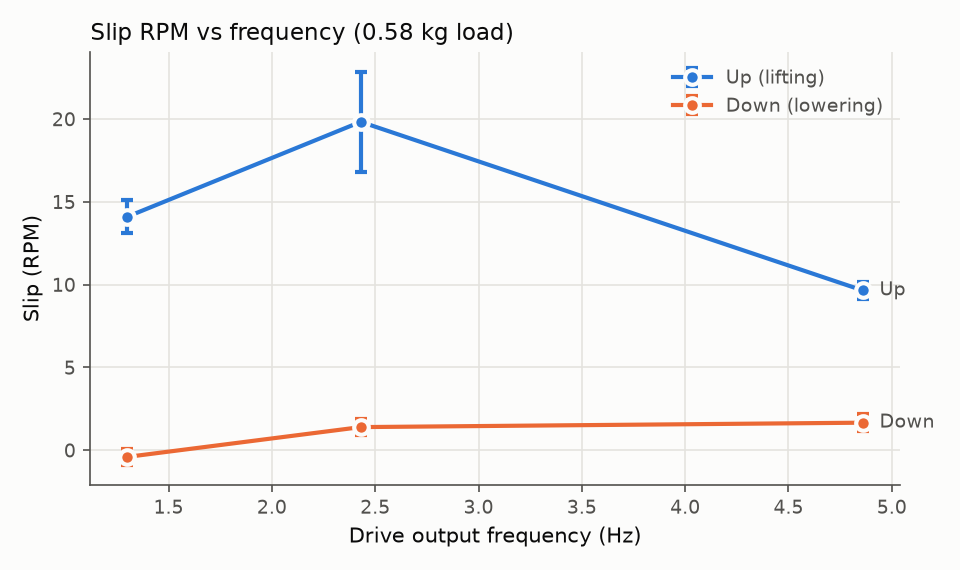
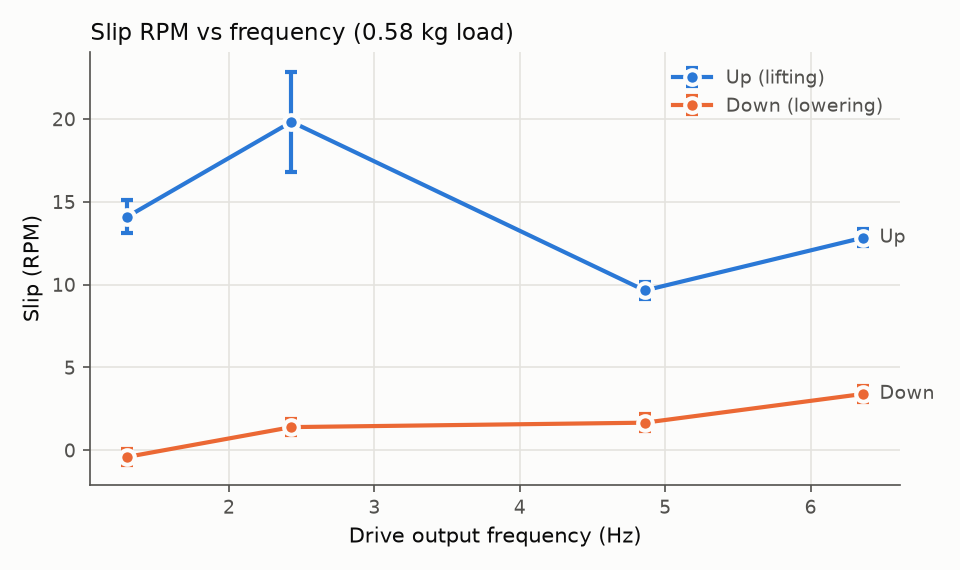
Log the 0.58 kg pliers test at 6.36 Hz, completing the pliers data set
One run (7) is excluded: tracing the raw log shows its "steady"
plateau is actually two different plateaus stitched together by a
mid-run dip that never fully crossed the stop threshold, giving a
blended, meaningless average. The remaining runs split cleanly on
current and extend the monotonic down-slip-vs-load trend seen at
4.85 Hz to a second frequency.

Claude-Session: https://claude.ai/code/session_01KDBgZS5sBDtdZcqbVDmcN3

diff --git a/docs/results-log.md b/docs/results-log.md
@@ -172,3 +172,33 @@ slip also lines up across all three load levels at this frequency, decreasing
 monotonically as load increases — no-load 3.0% → 0.58 kg pliers 1.1%–1.2% → 1.46 kg box
 ≈0% — consistent with heavier loads overhauling the motor more completely on the way
 down.
+
+## 2026-10-07: pliers (0.58 kg), 6.36 Hz — last of the four pliers frequencies
+
+Up read as **178 RPM**; down read as **187–188 RPM** (session
+`2026-10-07_Pliers_baseweight-0.58kg_testedfreq-6.36hz`). One run needed to be thrown out
+for a reason not seen before: run 7 (11.1 s, 33 steady rows — looks clean by the numbers
+alone) is actually two different runs stitched into one. Tracing the raw log, its current
+holds a tight ~0.74 A plateau, then goes through several seconds of the pot dipping to
+0.51–0.58 Hz without the frequency ever crossing the 0.5 Hz "stopped" threshold, then
+settles onto a *second*, different ~0.65 A plateau for the rest of the run. Because our
+continuity rule only checks whether frequency ever hits zero, this got treated as one
+run with a blended, meaningless average (0.724 A) — excluded rather than guessed at.
+
+The remaining five long runs still split cleanly on current, with a 0.072 A gap:
+
+| Run | Dir | Run time (s) | Current (A) | Sync RPM | RPM read | Slip |
+|---|---|---|---|---|---|---|
+| 2 | up | 7.9 | 0.753 | 190.9 | 178 | 0.0671–0.0676 |
+| 9 | up | 7.0 | 0.763 | 190.8 | 178 | 0.0671–0.0676 |
+| 11 | up | 4.3 | 0.765 | 190.8 | 178 | 0.0671–0.0676 |
+| 5 | down | 4.6 | 0.639 | 190.9 | 187–188 | 0.0152–0.0204 |
+| 10 | down | 8.4 | 0.681 | 190.9 | 187–188 | 0.0152–0.0204 |
+
+**Consistency check**: up slip (6.7%) again falls between the no-load baseline (5.5%–
+5.6%) and the 1.46 kg box (8.7%–9.3%) at 6.36 Hz. Down slip extends the monotonic-
+decrease-with-load pattern first seen at 4.85 Hz to a second frequency: no-load 2.5% →
+0.58 kg pliers 1.5%–2.0% → 1.46 kg box 0.4%–0.8%.
+
+This completes the pliers (0.58 kg) data set across all four test frequencies (1.39,
+2.44, 4.85, 6.36 Hz), matching the four points already collected for the 1.46 kg box.
